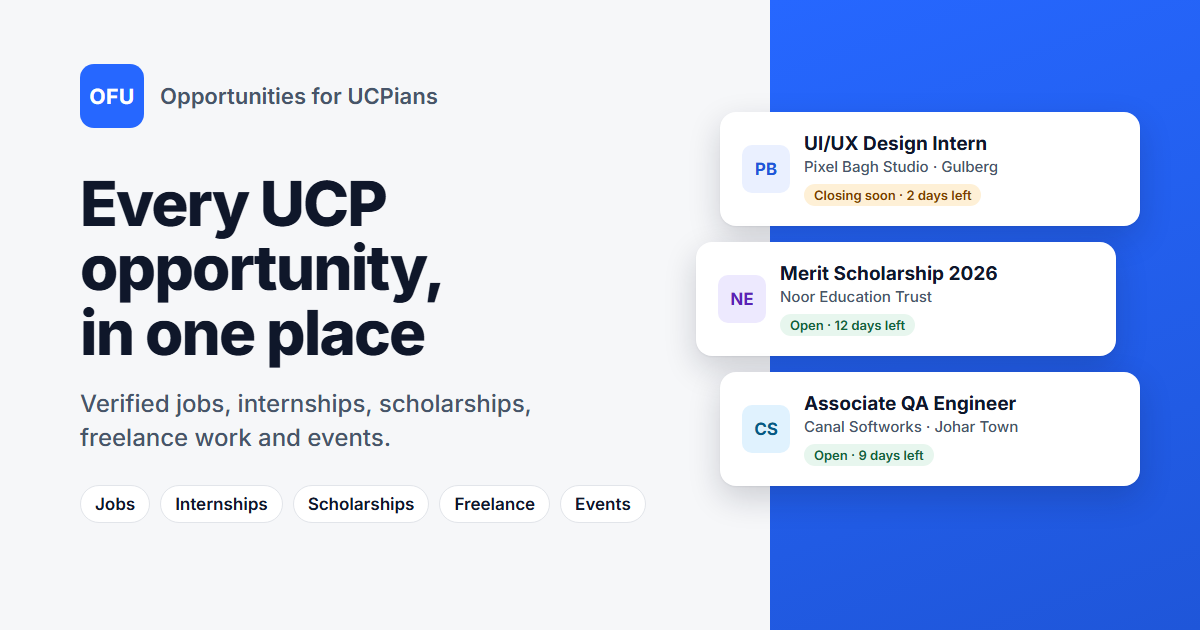
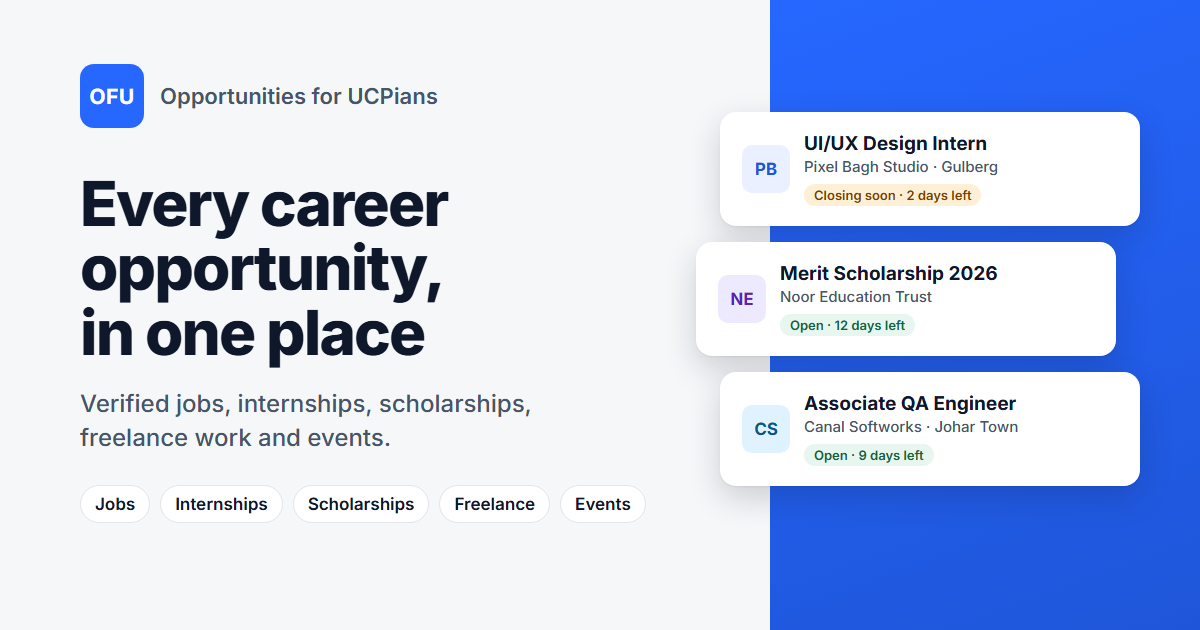
Landing: hero heading and share tags now say Every career opportunity, in one place

Changed region(s): [[0.2158, 0.2714, 0.37, 0.3619]]

diff --git a/index.html b/index.html
@@ -3,7 +3,7 @@
   <head>
     <meta charset="UTF-8" />
     <meta name="viewport" content="width=device-width, initial-scale=1.0" />
-    <title>OFU · Every UCP opportunity in one place</title>
+    <title>OFU · Every career opportunity in one place</title>
     <meta
       name="description"
       content="Verified jobs, internships, scholarships, freelance work and events for UCP students, in one place. A frontend redesign demo with student, alumni and admin views."
@@ -15,7 +15,7 @@
     <!-- Link previews. %VITE_SITE_URL% is the live address, filled in at build time (see vite.config.js). -->
     <meta property="og:type" content="website" />
     <meta property="og:site_name" content="OFU" />
-    <meta property="og:title" content="OFU · Every UCP opportunity in one place" />
+    <meta property="og:title" content="OFU · Every career opportunity in one place" />
     <meta
       property="og:description"
       content="Verified jobs, internships, scholarships, freelance work and events for UCP students, in one place."
@@ -24,9 +24,9 @@
     <meta property="og:image" content="%VITE_SITE_URL%/og-image.png" />
     <meta property="og:image:width" content="1200" />
     <meta property="og:image:height" content="630" />
-    <meta property="og:image:alt" content="OFU: every UCP opportunity in one place, with opportunity cards and deadlines" />
+    <meta property="og:image:alt" content="OFU: every career opportunity in one place, with opportunity cards and deadlines" />
     <meta name="twitter:card" content="summary_large_image" />
-    <meta name="twitter:title" content="OFU · Every UCP opportunity in one place" />
+    <meta name="twitter:title" content="OFU · Every career opportunity in one place" />
     <meta
       name="twitter:description"
       content="Verified jobs, internships, scholarships, freelance work and events for UCP students, in one place."

diff --git a/src/components/landing/SearchHero.jsx b/src/components/landing/SearchHero.jsx
@@ -38,7 +38,7 @@ export default function SearchHero() {
       {/* The top padding leaves room for the nav pill that sits over the photo. */}
       <div className="relative mx-auto flex max-w-3xl flex-col items-center px-4 pt-32 pb-16 text-center sm:pt-36 sm:pb-24">
         <h1 className="text-4xl leading-[1.1] font-bold tracking-tight text-balance text-white text-shadow-hero sm:text-5xl">
-          Every UCP opportunity, in one place
+          Every career opportunity, in one place
         </h1>
         <p className="mt-4 max-w-[55ch] text-base text-pretty text-white text-shadow-hero sm:text-lg">
           Jobs, internships, scholarships, freelance work and events, verified and organised so you never miss a
